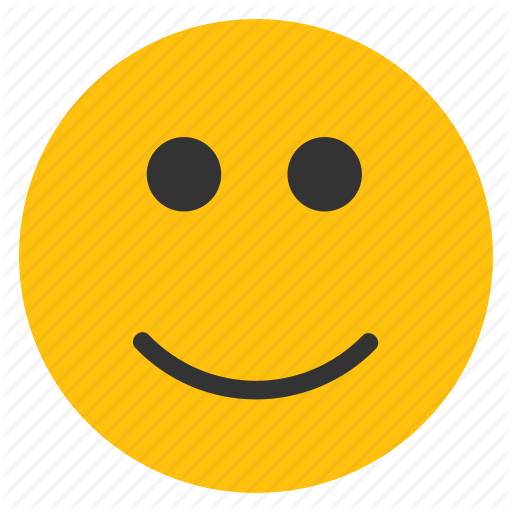
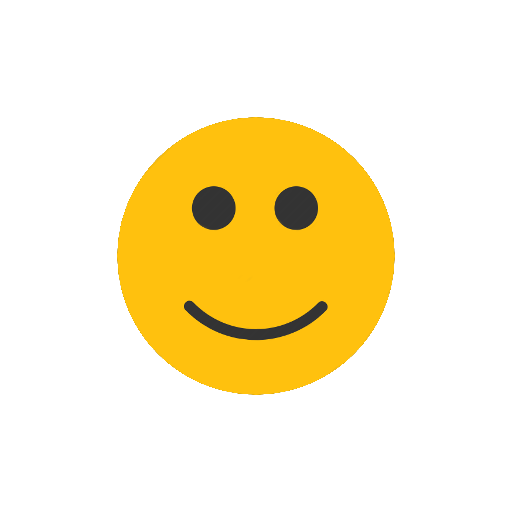
loading, layout4

diff --git a/public/stylesheets/style.css b/public/stylesheets/style.css
@@ -168,8 +168,10 @@ font-family: "cannon ball";
 	background-color: #A0CFEC;
 	border: solid 0.2em #08088A;
 	color: #151B54;
+
+	font-family: 'Century Gothic', CenturyGothic, AppleGothic, sans-serif;	
 	font-size: 1.3vw;
-	font-weight: bold;
+	font-weight: 900;
 	margin:0px;		
 }
 
@@ -183,12 +185,13 @@ font-family: "cannon ball";
 
 .btnMain#btnSmile{	
 	background:#A0CFEC url('/images/smile.png') no-repeat;
-	background-size: 40% 60%;
+	/*background-size: 40% 60%;*/
+	background-size:contain;
 	background-position: 50% 50%;
 }
 .btnMain#btnSmile:hover{
 	background: #A9BCF5 url('/images/smile.png') no-repeat;
-	background-size: 40% 60%;
+	background-size:contain;
 	background-position: 50% 50%;
 }
 .btnMain#btnSmile:focus{

diff --git a/public/front_end.js b/public/front_end.js
@@ -1,7 +1,6 @@
 	var mobileSuffix = "";
 	if( /Android|webOS|iPhone|iPad|iPod|BlackBerry|IEMobile|Opera Mini/i.test(navigator.userAgent) ) {
- 		mobileSuffix = "_mobile";
- 		alert("tu som");
+ 		mobileSuffix = "_mobile"; 		
 	}
 
 
